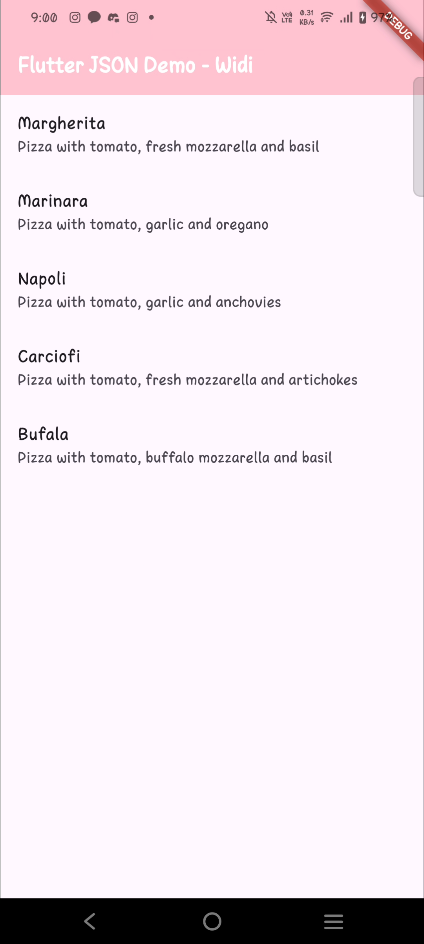
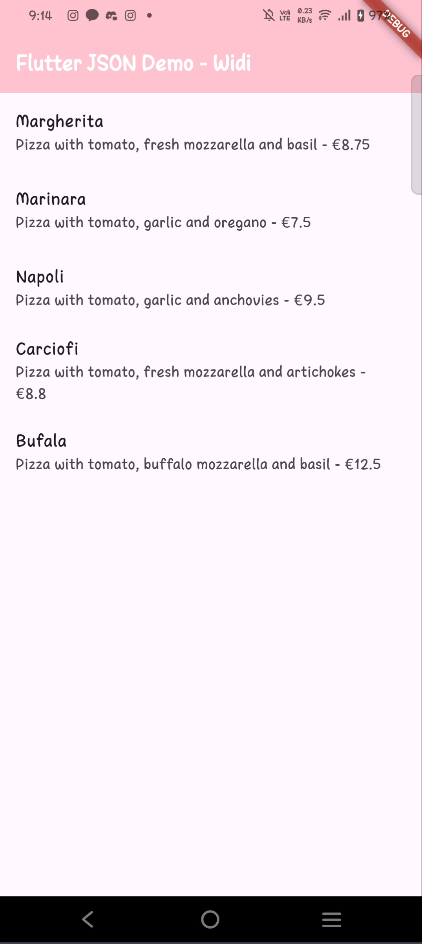
Week-13: Praktikum 2

diff --git a/Week-13/store_data_widi/lib/main.dart b/Week-13/store_data_widi/lib/main.dart
@@ -49,7 +49,7 @@ class _MyHomePageState extends State<MyHomePage> {
   Future<List<Pizza>> readJsonFile() async {
     String myString = await DefaultAssetBundle.of(
       context,
-    ).loadString('assets/pizzalist.json');
+    ).loadString('assets/pizzalist_broken.json');
     List pizzaMapList = jsonDecode(myString);
 
     List<Pizza> myPizzas = [];
@@ -82,7 +82,9 @@ class _MyHomePageState extends State<MyHomePage> {
         itemBuilder: (context, index) {
           return ListTile(
             title: Text(myPizzas[index].pizzaName),
-            subtitle: Text(myPizzas[index].description),
+            subtitle: Text(
+              '${myPizzas[index].description} - €${myPizzas[index].price}',
+            ),
           );
         },
       ),

diff --git a/Week-13/store_data_widi/lib/model/pizza.dart b/Week-13/store_data_widi/lib/model/pizza.dart
@@ -15,11 +15,15 @@ class Pizza {
 
   factory Pizza.fromJson(Map<String, dynamic> json) {
     return Pizza(
-      id: json['id'] ?? 0,
-      pizzaName: json['pizzaName'] ?? '',
-      description: json['description'] ?? '',
-      price: (json['price'] as num?)?.toDouble() ?? 0.0,
-      imageUrl: json['imageUrl'] ?? '',
+      id: int.tryParse(json['id'].toString()) ?? 0,
+      pizzaName: json['pizzaName'] != null
+          ? json['pizzaName'].toString()
+          : 'No name',
+      description: json['description'] != null
+          ? json['description'].toString()
+          : '',
+      price: double.tryParse(json['price'].toString()) ?? 0.0,
+      imageUrl: json['imageUrl'] != null ? json['imageUrl'].toString() : '',
     );
   }
 

diff --git a/Week-13/readme.md b/Week-13/readme.md
@@ -396,3 +396,74 @@ return myPizzas;
 Jalankan aplikasi. Periksa Debug Console untuk melihat List objek Pizza telah berhasil dikonversi kembali menjadi JSON String.
 
 ![serial json](./img/p1s26.png)
+
+---
+
+# PRAKTIKUM 2
+
+### Langkah 1: Simulasikan Error
+
+Anggaplah Anda telah mengganti file pizzalist.json dengan data yang tidak konsisten.
+
+### Langkah 2: Lihat Error Tipe Data String ke Int
+
+Jika ID pizza di JSON dikirim sebagai String (misalnya "id": "1" di JSON) sementara model Dart mengharapkan int, Anda akan melihat runtime error.
+
+### Langkah 3: Terapkan tryParse dan Null Coalescing pada ID
+
+Di Pizza.fromJson (file pizza.dart), ganti cara mendapatkan nilai id menggunakan int.tryParse dan null coalescing operator (??) untuk memberikan nilai default 0 jika parsing gagal atau nilainya null. Tujuannya adalah memastikan nilai id selalu integer.
+
+### Langkah 4: Simulasikan Error Null pada String
+
+Jika Anda menjalankan ulang dan ada bidang yang hilang (misalnya imageUrl hilang), Anda mungkin mendapatkan error Null.
+
+### Langkah 5: Terapkan Null Coalescing pada String
+
+Tambahkan null coalescing operator (??) pada imageUrl untuk memberikan string kosong ('') jika nilai yang diterima adalah null. Lakukan hal yang sama untuk bidang String lainnya seperti pizzaName dan description jika perlu.
+
+### Langkah 6: Gunakan toString() untuk Field String
+
+Untuk memastikan semua nilai yang digunakan sebagai String benar-benar String (bahkan jika mereka mungkin dikirim sebagai int atau tipe lain), gunakan toString().
+
+### Langkah 7: Simulasikan Error Tipe Data String ke Double
+
+Jika Anda menjalankan ulang, Anda mungkin menemukan error saat mengonversi String ke Double untuk bidang price.
+
+### Langkah 8: Terapkan double.tryParse
+
+Terapkan double.tryParse dengan null coalescing (?? 0) untuk bidang price, sama seperti yang Anda lakukan pada id.
+
+### Langkah 9: Run dan Perhatikan Output Null
+
+Setelah mengimplementasikan semua perbaikan tipe data, aplikasi akan berjalan, tetapi mungkin menampilkan "null" di UI jika ada bidang yang hilang atau gagal diparsing (seperti pizzaName atau description).
+
+![TEST NULL](./img/p2s9.png)
+
+### Langkah 10: Tambahkan Operator Ternary untuk Output User-Friendly
+
+Perbaiki masalah tampilan "null" dengan menambahkan operator ternary yang memeriksa apakah nilai null sebelum mengubahnya menjadi String. Jika null, berikan nilai pengganti yang ramah pengguna seperti 'No name' atau string kosong ('').
+
+```dart
+  factory Pizza.fromJson(Map<String, dynamic> json) {
+    return Pizza(
+      id: int.tryParse(json['id'].toString()) ?? 0,
+      pizzaName: json['pizzaName'] != null ? json['pizzaName'].toString() : 'No name',
+      description: json['description'] != null ? json['description'].toString() : '',
+      price: double.tryParse(json['price'].toString()) ?? 0.0,
+      imageUrl: json['imageUrl'] != null ? json['imageUrl'].toString() : '',
+    );
+  }
+```
+
+### Langkah 11: Run
+
+Jalankan aplikasi. Sekarang data yang tidak konsisten telah ditangani dengan baik, dan UI tidak menampilkan nilai null.
+
+![tidak menampilkan null](./img/p2s11.png)
+
+### Soal 4
+
+Capture hasil running aplikasi Anda, kemudian impor ke laporan praktikum Anda!
+Lalu lakukan commit dengan pesan "W13: Jawaban Soal 4".
+
+![tidak menampilkan null](./img/p2s11.png)
